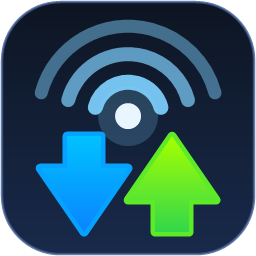
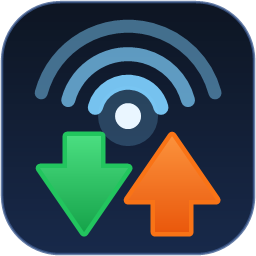
Update traffic colors for Download and Upload

Changed region(s): [[0.125, 0.5, 0.875, 0.9375]]

diff --git a/CHANGELOG.md b/CHANGELOG.md
@@ -3,6 +3,24 @@
 All notable changes to NetSpeed Live are documented here.
 Format follows [Keep a Changelog](https://keepachangelog.com/en/1.1.0/).
 
+## [1.1.0] — 2026-09-03 (Stage 16B — Traffic Color Update)
+
+### Changed
+- **Traffic colors updated**: the download arrow is now **green**
+  (`#4ADE80`→`#16A34A`) and the upload arrow is now **orange**
+  (`#FB923C`→`#EA580C`), in both the Signal Radar icon and all regenerated
+  release assets. Download remains **first** (left / top) and upload
+  **second** (right / bottom) — arrow shapes, directions, order, radar motif
+  and background are unchanged. The overlay itself is unaffected (its text
+  colour is a single user setting, not per-direction colours).
+
+### Changed (assets)
+- `Assets/app.ico` and `Assets/IconSource/NetSpeedLive-Icon-Master.png`
+  regenerated from the updated design; all nine ICO frames preserved
+  (16–48 px DIB, 64–256 px PNG); 16×16 legibility re-verified.
+- Release binaries, installers and checksums for **both** win-x64 and win-x86
+  rebuilt; portable ZIP regenerated.
+
 ## [1.1.0] — 2026-09-03 (Stage 15 — Public Release Preparation & Distribution)
 
 ### Added
@@ -95,7 +113,7 @@ Format follows [Keep a Changelog](https://keepachangelog.com/en/1.1.0/).
 ### Added
 - **Signal Radar application icon** (Concept 7): deep-navy rounded-square tile
   with cyan radar arcs and a centre dot (live monitoring) in the upper portion,
-  a blue/cyan **download arrow first on the left**, and a green **upload arrow
+  a green **download arrow first on the left**, and an orange **upload arrow
   second on the right** — matching the app's download-first display order.
 - `Assets/IconSource/` source assets: `NetSpeedLive-Icon.svg` (vector master)
   and `NetSpeedLive-Icon-Master.png` (256×256 raster master).

diff --git a/Assets/IconSource/README.md b/Assets/IconSource/README.md
@@ -18,8 +18,8 @@ from this design. It embeds 16/20/24/32/40/48 px as 32-bit BGRA DIB frames and
 - Radar arcs + centre dot: live monitoring identity, upper portion.
 - Blue/cyan **down arrow first (left)** — download.
 - Green **up arrow second (right)** — upload.
-- Palette: `#0A84FF`/`#00C2FF` (download), `#32D74B`/`#A6FF00` (upload),
-  `#0D1522`→`#18294A` navy background, `#7FD0FF`/`#EAF6FF` radar.
+- Palette: `#16A34A`/`#4ADE80` (download, green), `#EA580C`/`#FB923C` (upload,
+  orange), navy background `#0D1522`→`#18294A`, radar `#7FD0FF`/`#EAF6FF`.
 - Below 32 px the smallest radar arc is dropped and strokes are thickened so
   the 16×16 tray rendering stays legible (arrows + one arc + dot).
 

diff --git a/README.md b/README.md
@@ -51,8 +51,8 @@ Built with **C# / .NET 8 / WPF** by **KSA AI STUDIO**.
 - **About window** — product, version, studio, founder, contact, read from
   assembly metadata.
 - **Optional UPI donation** — offline QR (QRCoder) + Copy UPI ID.
-- **Signal Radar icon** — navy rounded square, radar arcs, blue download /
-  green upload arrows; multi-resolution 16–256 px.
+- **Signal Radar icon** — navy rounded square, radar arcs, green download /
+  orange upload arrows; multi-resolution 16–256 px.
 - **Settings persistence** — JSON in `%APPDATA%\NetPulseOverlay\settings.json`
   (atomic writes; corrupt/missing files fall back to defaults).
 
